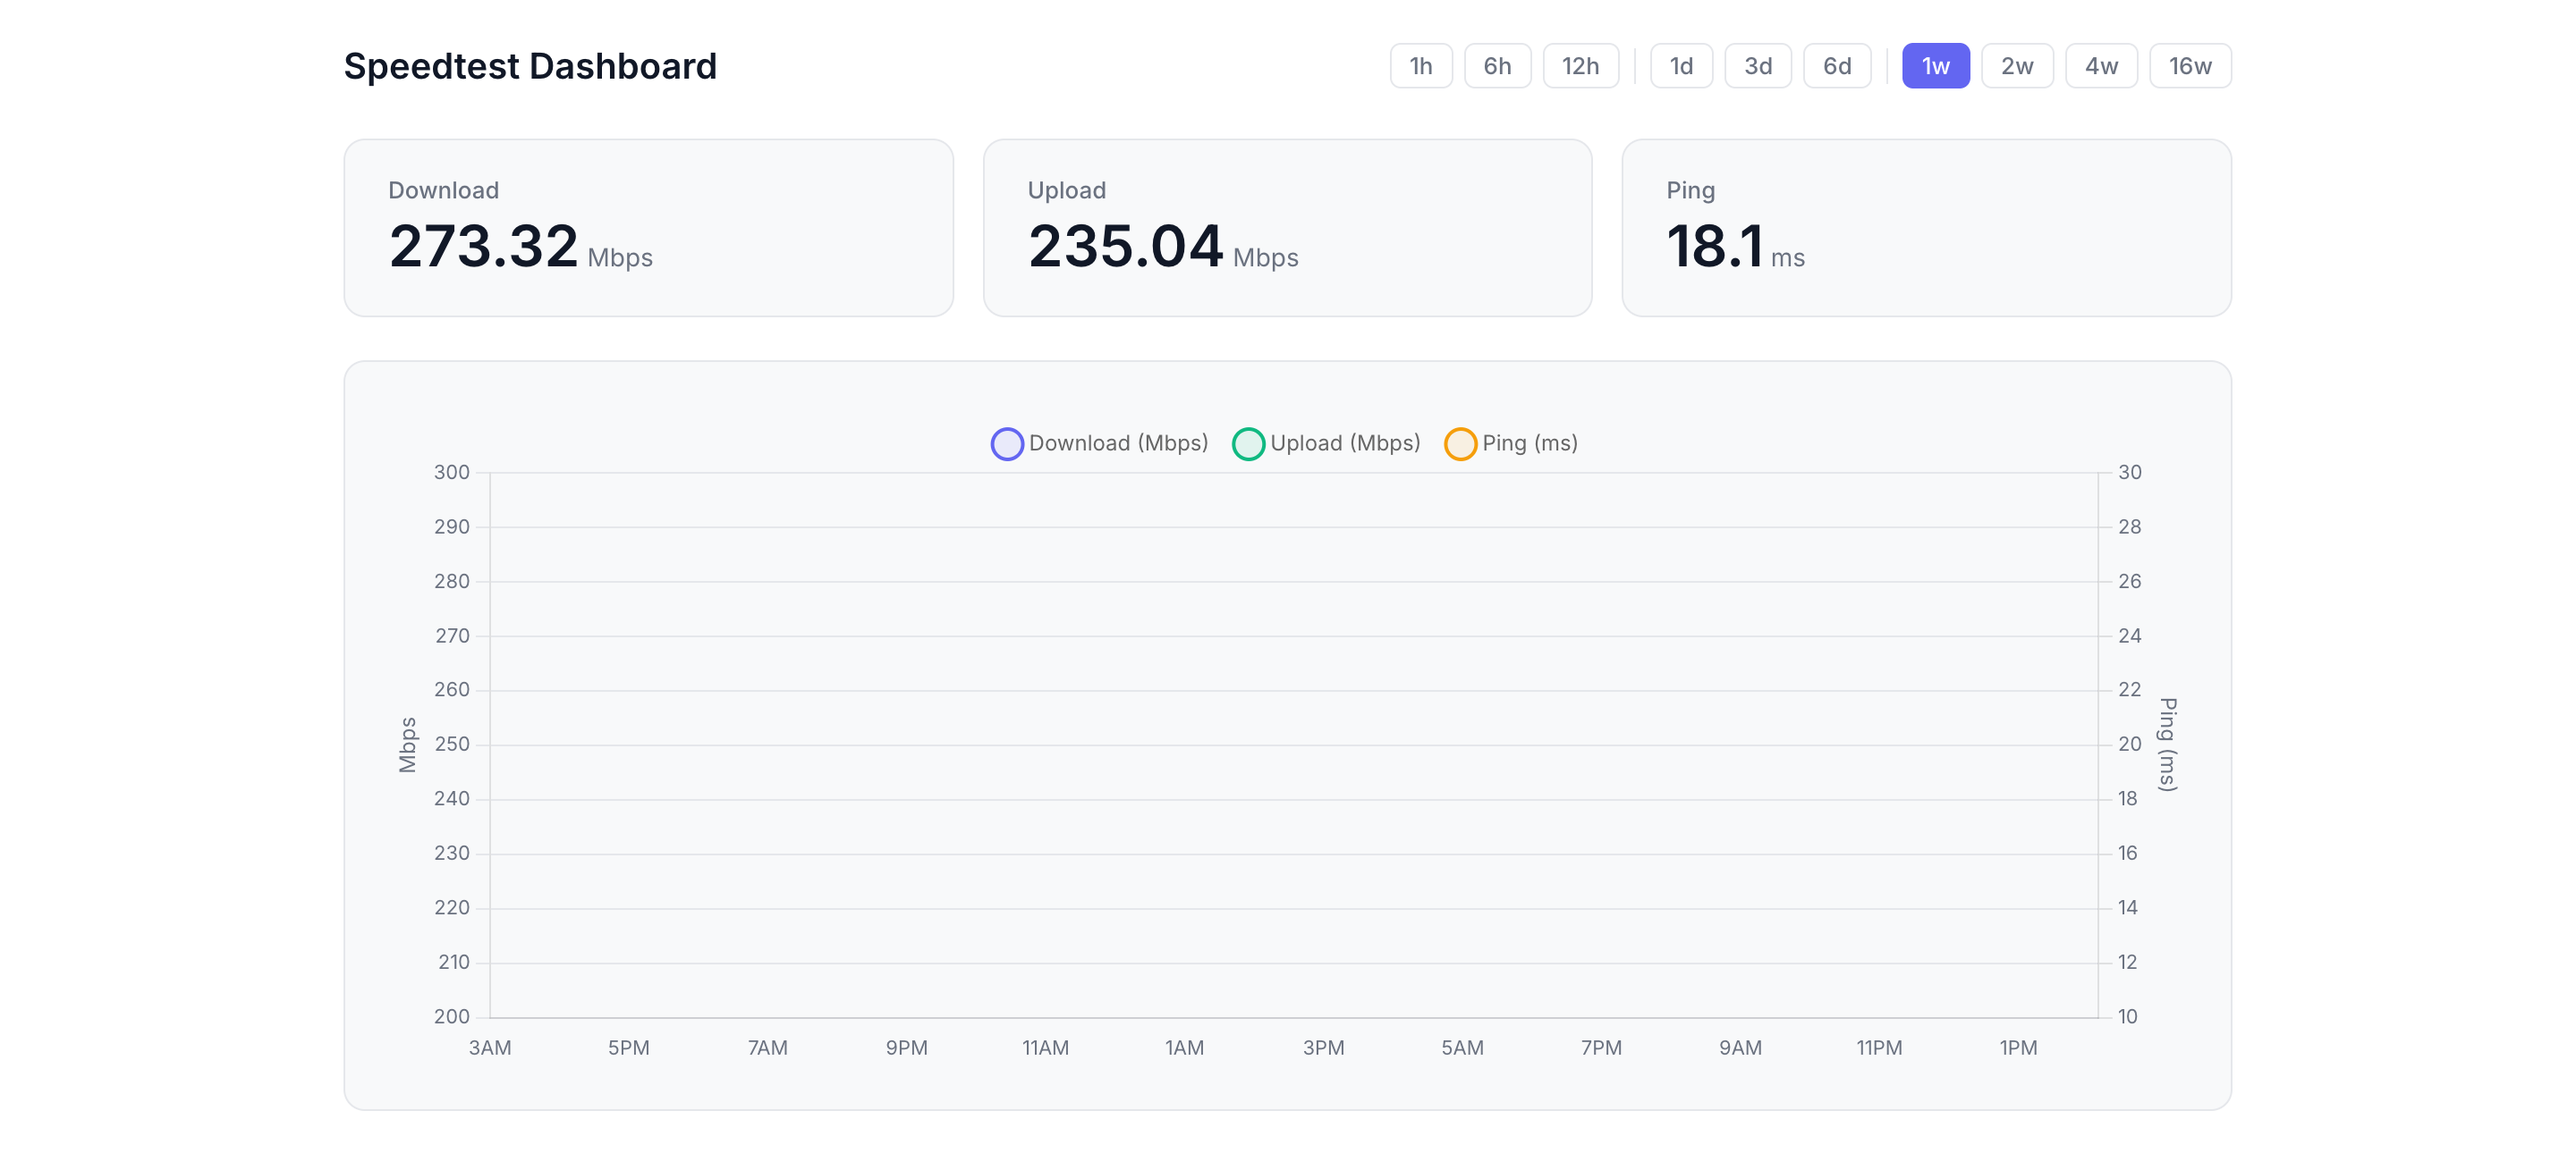
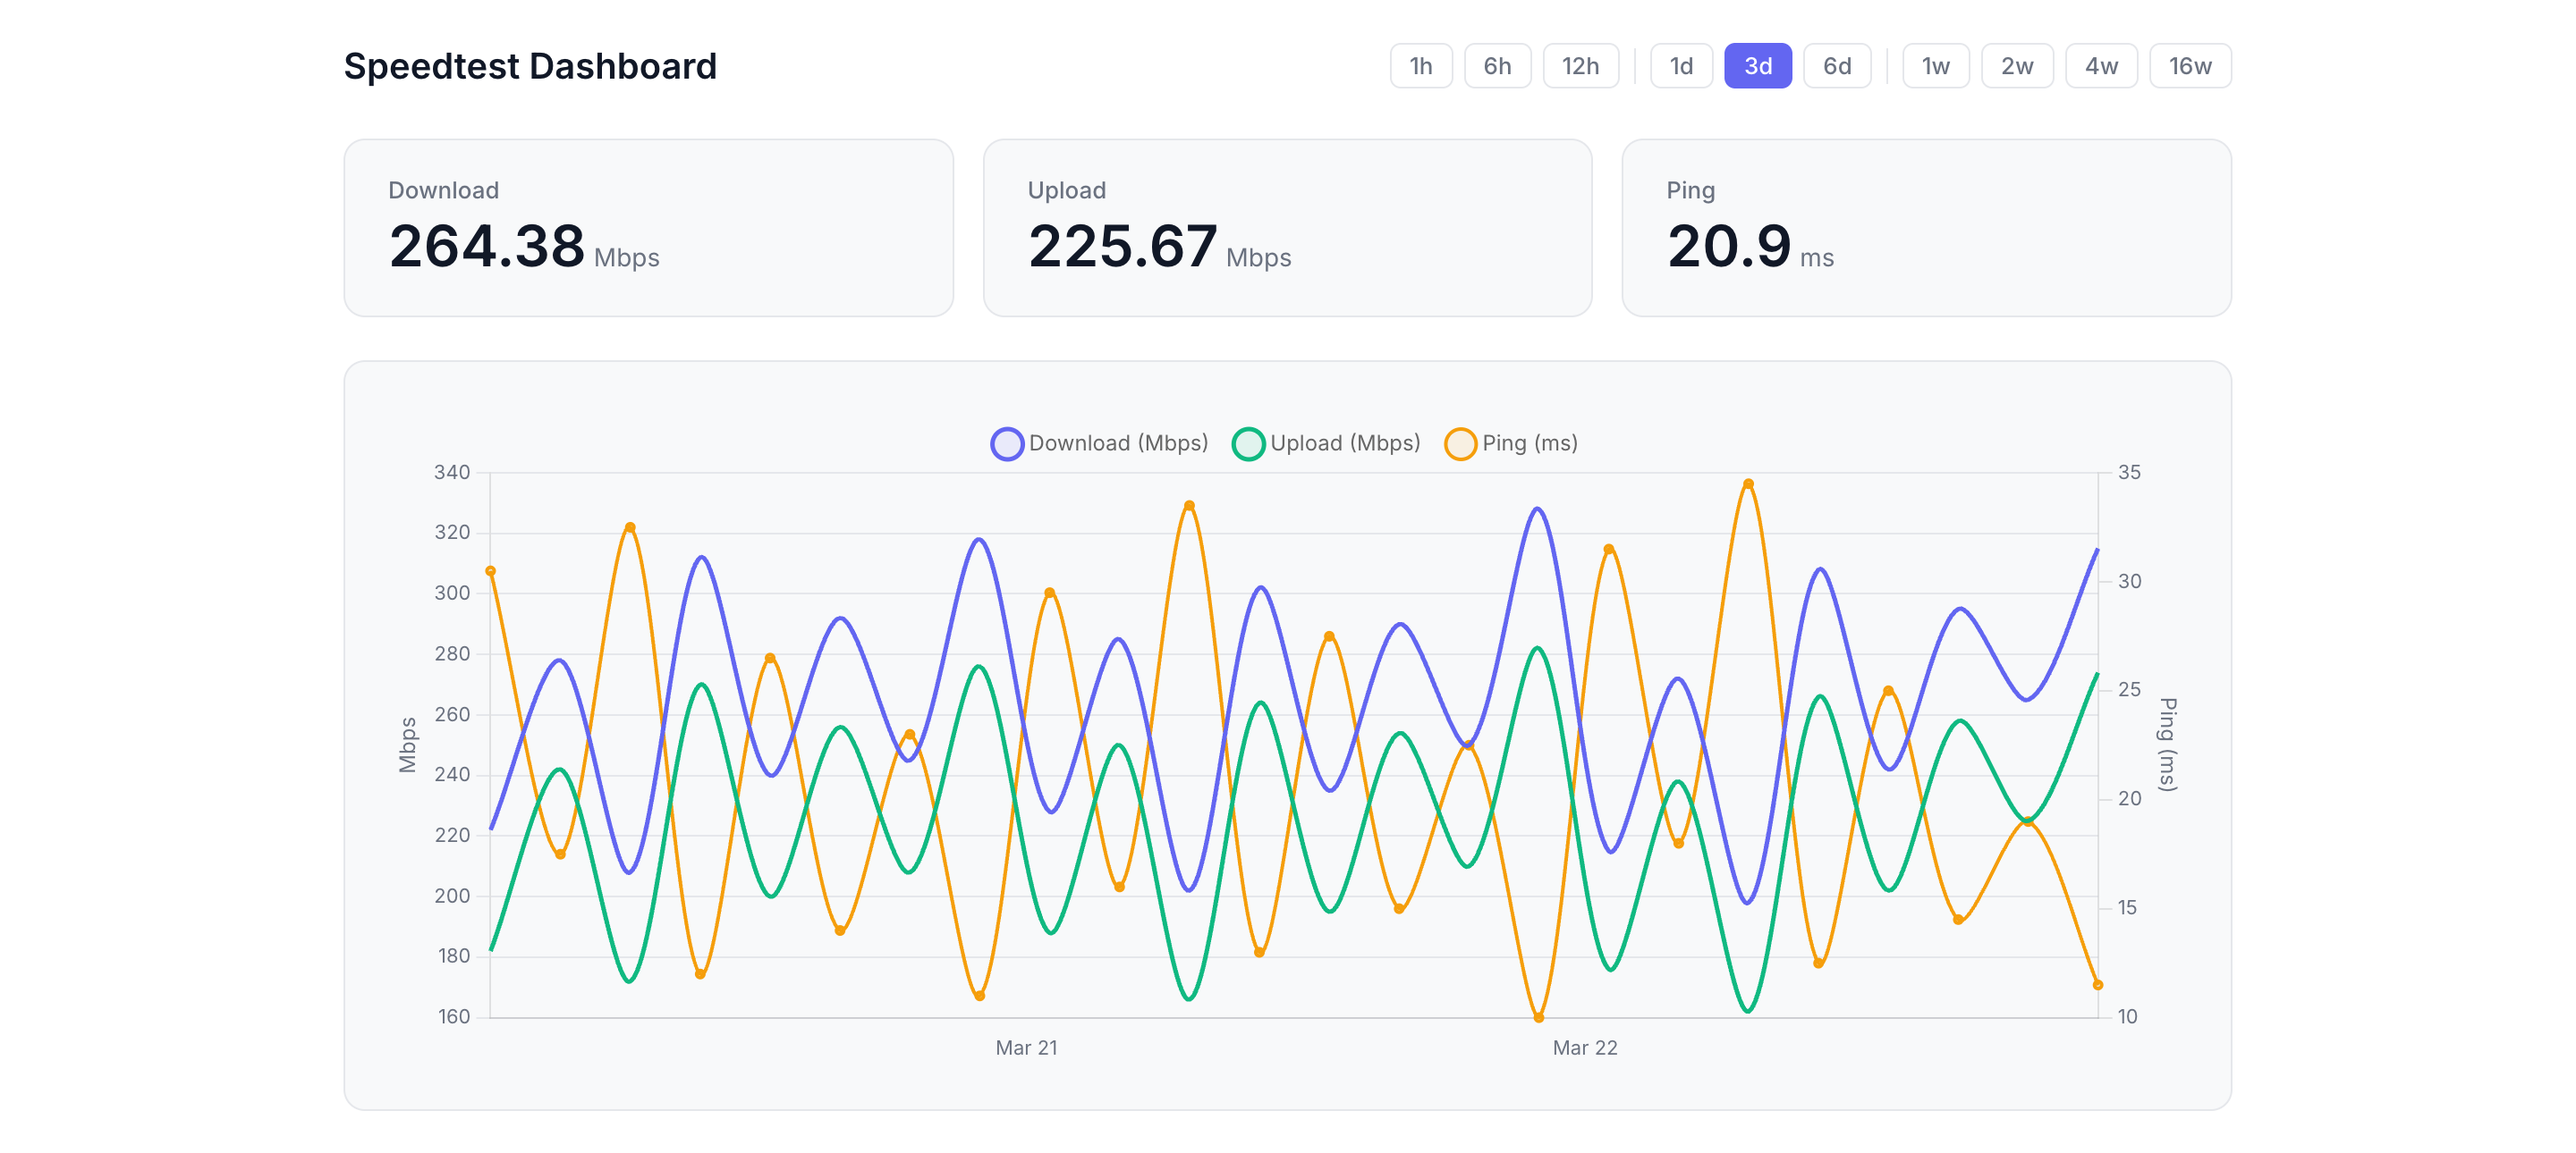
Adapt x-axis time labels to selected filter range
Show hourly labels for <=24h filters, daily labels for multi-day/week
filters, and weekly labels for 4w+. Removes confusing time-only labels
on longer ranges.

diff --git a/static/scripts/script.js b/static/scripts/script.js
@@ -44,9 +44,9 @@ document.addEventListener('DOMContentLoaded', function () {
           data: downloads,
           borderColor: accent,
           backgroundColor: accent + '1a',
-          borderWidth: 2,
-          pointRadius: 2,
-          pointHoverRadius: 4,
+          borderWidth: 2.5,
+          pointRadius: 0,
+          pointHoverRadius: 5,
           tension: 0.3,
           fill: false,
           yAxisID: 'y',
@@ -56,9 +56,9 @@ document.addEventListener('DOMContentLoaded', function () {
           data: uploads,
           borderColor: uploadColor,
           backgroundColor: uploadColor + '1a',
-          borderWidth: 2,
-          pointRadius: 2,
-          pointHoverRadius: 4,
+          borderWidth: 2.5,
+          pointRadius: 0,
+          pointHoverRadius: 5,
           tension: 0.3,
           fill: false,
           yAxisID: 'y',
@@ -69,7 +69,6 @@ document.addEventListener('DOMContentLoaded', function () {
           borderColor: pingColor,
           backgroundColor: pingColor + '1a',
           borderWidth: 2,
-          borderDash: [5, 3],
           pointRadius: 2,
           pointHoverRadius: 4,
           tension: 0.3,
@@ -107,8 +106,17 @@ document.addEventListener('DOMContentLoaded', function () {
           type: 'time',
           time: {
             tooltipFormat: 'MMM d, yyyy  HH:mm',
+            unit: (function () {
+              var f = window.activeFilter || {};
+              var n = parseInt(f.number) || 1;
+              var u = f.unit || 'week';
+              // Convert to total hours
+              var hours = u === 'hour' ? n : u === 'day' ? n * 24 : n * 168;
+              if (hours <= 24) return 'hour';
+              if (hours <= 24 * 14) return 'day';
+              return 'week';
+            })(),
             displayFormats: {
-              minute: 'HH:mm',
               hour: 'ha',
               day: 'MMM d',
               week: 'MMM d',
